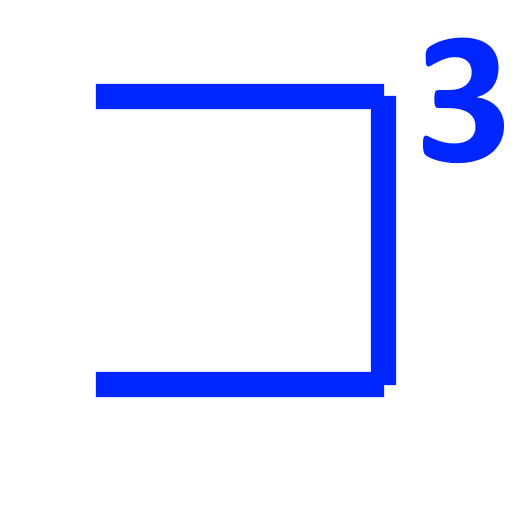
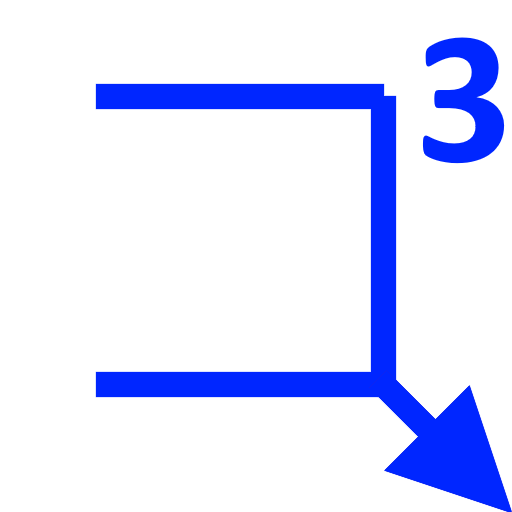
Fixed images and draw lines  error on resize

Changed region(s): [[0.75, 0.75, 1.0, 1.0]]

diff --git a/main.py b/main.py
@@ -1,6 +1,5 @@
-# consider using an accordian for the line and controller setup, also allows other draw options
-#  in limited space
-
+# add an auto line method
+# also a method that accesses lines
 
 # create a grid of buttons which if pressed will inform the paint class where to paint the symbol on the canvas
 # but the symbol type (AC masked/unmasked) will be based on input from other buttons
@@ -15,6 +14,8 @@ from itertools import izip as zip
 # from PIL import Image
 from kivy.app import App
 from kivy.core.window import Window
+from kivy.graphics import Color, Line
+from kivy.input.shape import ShapeRect
 from kivy.properties import ObjectProperty, DictProperty, NumericProperty, StringProperty, ListProperty
 from kivy.uix.button import Button
 from kivy.uix.tabbedpanel import TabbedPanel
@@ -143,16 +144,37 @@ class AudioButton(Button):
         if (self.collide_point(*touch.pos) and touch.is_double_tap == False
             and self.parent.parent.parent.parent.parent.parent.parent.parent.ids.drawlineDrawer.collapse == False):
             print('my precious you found the parent')
+
+            # with self.parent.parent.parent.parent.parent.parent.parent.parent.canvas:
+            with self.parent.parent.parent.canvas:
+                # logic to change initial colour and line
+                if App.get_running_app().lineType == 'right':
+                    Color(1, 0, 0, 1)
+                    touch.ud['redline'] = Line(points=(self.center_x, self.center_y))
+                elif App.get_running_app().lineType == 'left':
+                    Color(0, 0, 1, 1)
+                    touch.ud['blueline'] = Line(points=(self.center_x, self.center_y), dash_offset=5)
             # so now I want to reference a draw method in the audiogramW canvas I think?
             # I want it to take thes touck inputs and then take the next collide on drag for a button containing either
             # a r or l AC symbol, and draw a line between them
 
-        elif self.collide_point(*touch.pos) and touch.is_double_tap == False:
+        elif self.collide_point(*touch.pos) and not touch.is_double_tap:
             super(AudioButton, self).on_touch_down(touch)
             # print self.text  # references the level,
             # print self.parent.parent.frequencyLabel  #
+
+            # print self.parent.parent.parent.parent.parent.parent.parent.parent.ids  # this is it
+
+            if isinstance(touch.shape, ShapeRect):
+                print('My touch have a rectangle shape of size',
+                      (touch.shape.width, touch.shape.height))
+            else:
+                print 'nah bro'
+
             print self.parent.parent.parent.parent.ids
-            print self.parent.parent.parent.parent.parent.parent.parent.parent.ids  # this is it
+
+            print '-' * 10
+            print self.parent.parent.parent.parent.ids['audiogramW'].ids
 
         #     double tap
         if self.collide_point(*touch.pos) and touch.is_double_tap:
@@ -172,6 +194,33 @@ class AudioButton(Button):
             print "popped"  # will need to implement a time delay
         return
 
+    def on_touch_move(self, touch):
+        if (self.parent.parent.parent.parent.parent.parent.parent.parent.ids.drawlineDrawer.collapse == False
+            and self.collide_point(*touch.pos)):
+
+            # add logic to change line colour if NR to clear
+            if App.get_running_app().lineType == 'right':
+                if self.contents['RAC'][0] != 0:
+                    touch.ud['redline'].points += [self.airconduction.center_x, self.center_y]
+                    # add logic to change the colour in here
+
+            if App.get_running_app().lineType == 'left':
+                if self.contents['LAC'][0] != 0:
+                    # if self.contents['LAC'][0] == 3 or 4: # if values have NR then make pen clear
+                    #     touch.ud['blueline'].width = 0.0
+                    touch.ud['blueline'].points += [self.airconduction.center_x, self.center_y]
+                    # add logic to change the colour in here
+
+                    # print self.ids
+
+                    # touch.ud['line'].points += [touch.x, touch.y]
+
+                    # def on_touch_up(self, touch):
+                    #     if (self.parent.parent.parent.parent.parent.parent.parent.parent.ids.drawlineDrawer.collapse == False
+                    #         and self.collide_point(*touch.pos)):
+                    #         print str(self.text) + ' * ' + str(self.parent.parent.frequencyLabel) + ' was lifted'
+                    #         touch.ud['line'].points += [self.airconduction.center_x, self.center_y]
+
 
 class FrequencyColumn(Widget):
     frequencyLabel = StringProperty("")
@@ -182,6 +231,7 @@ class HalfFrequencyColumn(Widget):
 
 
 class AudiogramW(Widget):
+    audiogramw = ObjectProperty()
     soll = NumericProperty(0)
     # def on_touch_up(self, touch):
 
@@ -296,12 +346,18 @@ class Controller(Widget):
 
 class MainScreen(TabbedPanel):
     drawlineDrawer = ObjectProperty()
+
+    def getLineType(self, input):
+        App.get_running_app().lineType = input
+
+
     pass
 
 
 class DrawAudioApp(App):
-    symbolType = StringProperty
+    symbolType = StringProperty()
     controllerOutput = ListProperty(['--', '-', '--', '0', '--', '-', '--', '0'])
+    lineType = StringProperty()
 
 
     def build(self):

diff --git a/BCImageMaker.py b/BCImageMaker.py
@@ -85,7 +85,7 @@ for pos in range(len(o_both)):
         # add NR symbol
         if o_both[pos][1] == '-':
             newImage = overlayImage(newImage, Image.open('R-longNR.png'))
-        if o_both[pos][1] == 'nr':
+        if o_both[pos][1] == 'm':
             newImage = overlayImage(newImage, Image.open('R-NR.png'))
 
     if o_both[pos][3] == '1':
@@ -105,7 +105,7 @@ for pos in range(len(o_both)):
         # add NR symbol
         if o_both[pos][5] == '-':
             newImage = overlayImage(newImage, Image.open('L-longNR.png'))
-        if o_both[pos][5] == 'nr':
+        if o_both[pos][5] == 'm':
             newImage = overlayImage(newImage, Image.open('L-NR.png'))
 
     if o_both[pos][7] == '1':
